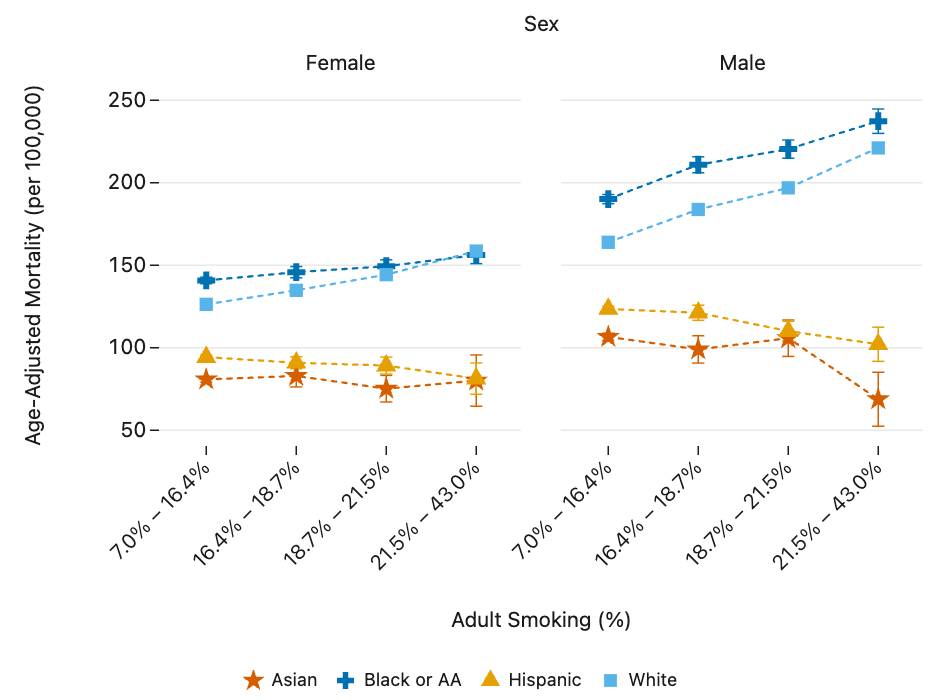
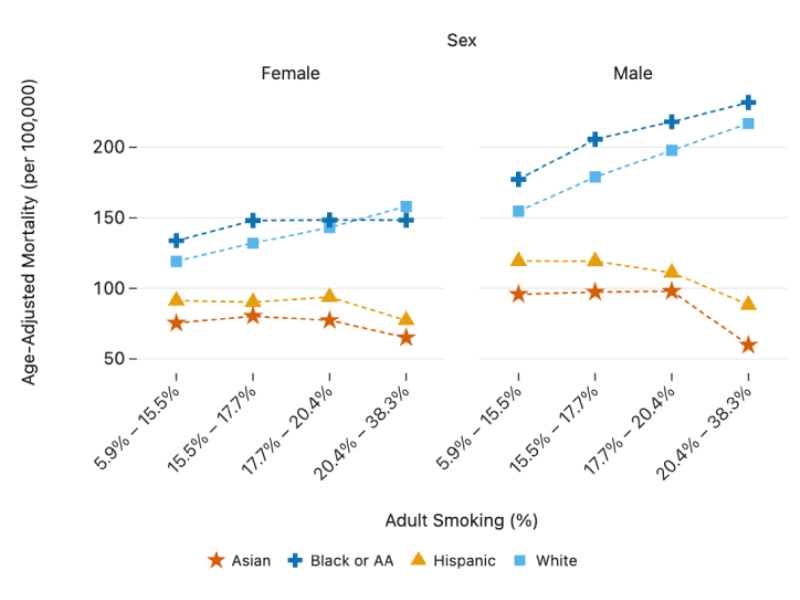
Updated screenshots on homepage (more uniform)

diff --git a/src/pages/index.html b/src/pages/index.html
@@ -27,7 +27,7 @@
         <ul class="nci-card-group">
           <li class="nci-card desktop:grid-col-4">
             <a href="./maps/" aria-label="Mapping Tool">
-              <picture class="nci-card__image">
+              <picture class="nci-card__image margin-x-1">
                 <img src="/images/card_map.png" alt="Map Tool Image" />
               </picture>
               <div class="nci-card__body">
@@ -40,7 +40,7 @@
           </li>
           <li class="nci-card desktop:grid-col-4">
             <a href="./characteristics/" aria-label="County Characteristics Tool">
-              <picture class="nci-card__image">
+              <picture class="nci-card__image margin-x-1">
                 <img src="/images/card_county-characterstics.png" alt="County Characteristics Tool Image" />
               </picture>
               <div class="nci-card__body">
@@ -53,7 +53,7 @@
           </li>
           <li class="nci-card desktop:grid-col-4">
             <a href="./demographics/" aria-label="Demographics Tool">
-              <picture class="nci-card__image">
+              <picture class="nci-card__image margin-x-1">
                 <img src="/images/card_demographics.png" alt="Demographics Tool Image" />
               </picture>
               <div class="nci-card__body">
